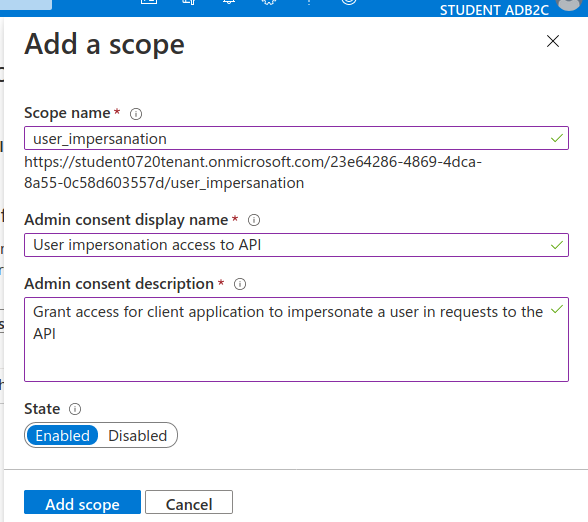
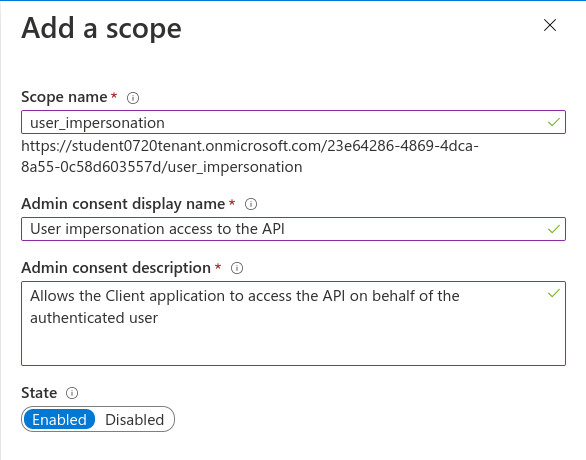
wt aadb2c access: complete Protect API section
- updated screenshots

Changed region(s): [[0.0, 0.1826, 0.9829, 1.0], [0.0, 0.0, 1.0, 0.1217]]

diff --git a/src/chapters/intro-oauth-with-aadb2c/walkthrough_aadb2c-access.rst b/src/chapters/intro-oauth-with-aadb2c/walkthrough_aadb2c-access.rst
@@ -2,11 +2,11 @@
 Walkthrough: Set Up Access Token Authorization with Azure ADB2C
 ===============================================================
 
-In the previous walkthrough we created our AADB2C tenant and configured an identity token flow. These steps enabled our Coding Events API to integrate with AADB2C as an identity manager using OIDC to **authenticate the identity** of our application's users.
+In the previous walkthrough we created our AADB2C tenant and configured an identity token flow. These steps integrated our Coding Events API with our AADB2C tenant as a centralized identity manager. At this point the API can use **OIDC** to **authenticate the identity** of users in the AADB2C tenant.
 
-In this walkthrough we will explore the other half of AADB2C -- protecting applications using access tokens. Recall that we can use OAuth access tokens as a means of **delegating authorization** for one service to act on behalf of a user when interacting with another service.
+In this walkthrough we will explore the other half of AADB2C -- protecting applications using access tokens. Recall that we can use **OAuth** access tokens as a means of **delegating authorization** for one service to interact with another service on behalf of a user.
 
-Because our API is headless we will need a client application, Postman, to consume it. However, we need to protect our API to prevent *unregistered applications* from interacting with it.
+Remember that an API, by definition, can only be must consumed by client applications. We can use AADB2C as an **authorization server** to protect our API by restrict access only to *registered applications*. In our case we will use Postman as the consuming client application
 
 Our goal is to configure AADB2C to grant access tokens to the Postman client application. These tokens will need to include a **scope** that **authorizes** Postman (the token *bearer*) to interact with the protected application (Coding Events API) **on behalf of a user**.
 
@@ -37,9 +37,9 @@ The final branch of the Coding Events API includes many additions to the code ba
 
    If you would like to learn more about RBAC and ABAC `this article <https://www.dnsstuff.com/rbac-vs-abac-access-control>`_ provides a great description of their similarities and differences.
 
-In addition to the ``CodingEvent`` resource the API now includes the ``Member`` and ``Tag`` resources. Because there are many more endpoints available in this version of the API we have provided a Postman collection file that you can import. 
+In addition to the ``CodingEvent`` resource the API now includes the ``Member`` and ``Tag`` resources. Because there are many more endpoints available in this version of the API you will find a Postman collection file in the that you can import. 
 
-In the ``coding-events-api/CodingEventsAPI`` project directory you will find the ``Postman_AADB2C-CodingEventsAPI-Collection.json`` collection file.
+Switch to the ``3-aadb2c`` branch in your forked ``coding-events-api`` repo. In the ``coding-events-api/CodingEventsAPI`` project directory is a Postman collection file called ``Postman_AADB2C-CodingEventsAPI-Collection.json``. Let's import this file into Postman.
 
 Open Postman and select the **Import** button (next to **New**):
 
@@ -54,7 +54,7 @@ Select the **Upload Files** button and navigate to the collection file in your p
 Select the **Import** button to import the collection:
 
 .. image:: /_static/images/intro-oauth-with-aadb2c/walkthrough_aadb2c-access/postman/3select-import.png
-   :alt: Postman import the uploaded collection
+   :alt: Postman import the uploadedthen collection
 
 On the right side of the new collection click the three dots then select **Edit**:
 
@@ -66,9 +66,9 @@ From the edit collection modal select the **Authorization** tab:
 .. image:: /_static/images/intro-oauth-with-aadb2c/walkthrough_aadb2c-access/postman/5select-authorization-tab.png
    :alt: Postman collection Authorization tab
 
-This imported collection comes pre-configured for you with many of the Authorization settings. From this tab you can see it has been configured to use OAuth for getting access tokens. The access token will be sent in the ``Authorization`` request header using the ``Bearer`` prefix. 
+In addition to all of the endpoints and organizing directories, this imported collection comes with many of the Authorization settings pre-configured for you. From this tab you can see it has already been configured to use OAuth for getting an access token. After getting the access token it will be automatically sent in the ``Authorization`` request header for every request made within the collection.
 
-This prefix will be used to indicate that Postman is the *bearer of a token that authorizes its requests* for interacting with the API on behalf of your AADB2C user account. The API then extracts and validates this token before processing the request using its RBAC and ABAC rules.
+The ``Bearer`` prefix will be used to indicate that Postman is the *bearer of a token that authorizes its requests* for interacting with the API *on behalf of its* **sub**\ject, the AADB2C user it was created for. The updated API then extracts and validates this token before processing the request using its RBAC and ABAC rules.
 
 Selecting the **Get New Access Token** button will open a modal with a form for configuring the access token request:
 
@@ -92,32 +92,59 @@ Leave this form open in Postman and switch over to the Azure Portal.
 Protect the Coding Events API
 =============================
 
-In this step we will configure AADB2C to protect our API. We will be setting up and exposing the ``user_impersonation`` scope that Postman will use. At the end of this step you will copy over the value for the **Scope** field in the Postman form.
+In this step we will configure AADB2C to protect our API. We will be setting up and *exposing* the ``user_impersonation`` scope that Postman will use. At the end of this step you will copy over the URI of this scope into the value for the **Scope** field in the Postman form.
 
 First navigate to your AADB2C tenant directory. Then select the Coding Events API under **App Registrations**.
 
-Within the API application dashboard select the **Expose an API** settings:
+Copy the API Client ID
+----------------------
+
+From the Coding Events API application dashboard copy the **client ID**:
 
 .. image:: /_static/images/intro-oauth-with-aadb2c/walkthrough_aadb2c-access/1set-api-scopes.png
    :alt: AADB2C expose an API
 
-- sidebar will pop open to set application ID URI (just save and continue)
+Switch back to Postman and **replace the client ID field** with the copied value.
 
-.. image:: /_static/images/intro-oauth-with-aadb2c/walkthrough_aadb2c-access/2set-app-id-uri.png
-   :alt: set application uri id
+Expose a user_impersonation Scope for the API
+---------------------------------------------
 
-- set-user-impersonation-scope
-- user_impersonation
-- User impersonation access to API
-- Grant access for client application to impersonate a user in requests to the API
+Next select the **Expose an API** settings from the left panel. From this view we can expose controlled access to our API using scopes.
+
+Select the **Add a scope** button:
+
+.. image:: /_static/images/intro-oauth-with-aadb2c/walkthrough_aadb2c-access/1set-api-scopes.png
+   :alt: AADB2C expose an API
+
+Since this is the first scope exposed for our API we will need to register its **application ID URI**. This is a unique identifier that associates the exposed scopes to this specific registered application. By default it will use the registered application's client ID.
+
+.. image:: /_static/images/intro-oauth-with-aadb2c/walkthrough_aadb2c-access/2set-scope-app-id-uri.png
+   :alt: AADB2C set application ID URI for new scope
+
+Select **Save and continue** to proceed to the new scope form. 
+
+We will be exposing a ``user_impersonation`` scope for our API. This scope is what the Postman client application will request access to in order to send requests to the API on behalf of the user. Enter the following values for each of the scope form fields:
+
+- **Scope name**: ``user_impersonation``
+- **Admin consent display**: ``User impersonation access to API``
+- **Admin consent description**: ``Allows the Client application to access the API on behalf of the authenticated user``
 
 .. image:: /_static/images/intro-oauth-with-aadb2c/walkthrough_aadb2c-access/3set-user-impersonation-scope.png
-   :alt: add user_impersonation scope to API
+   :alt: AADB2C add user_impersonation scope to API
+
+After the scope has been registered copy the scope URI (using the blue copy icon next to it):
 
 .. image:: /_static/images/intro-oauth-with-aadb2c/walkthrough_aadb2c-access/3-5copy-scope-uri.png
-   :alt: add user_impersonation scope to API
+   :alt: AADB2C copy scope URI
 
-Copy the ``Scope`` and ``Client ID`` to the Postman form.
+Switch back to Postman and **replace the scope field** with the copied value.
+
+.. admonition:: Warning
+
+   Before continuing make sure you have updated the Postman form with your **Coding Event API application** values for:
+
+   - **client ID**
+   - **scope URI** for the ``user_impersonation`` scope
 
 Register the Postman Client Application
 =======================================
